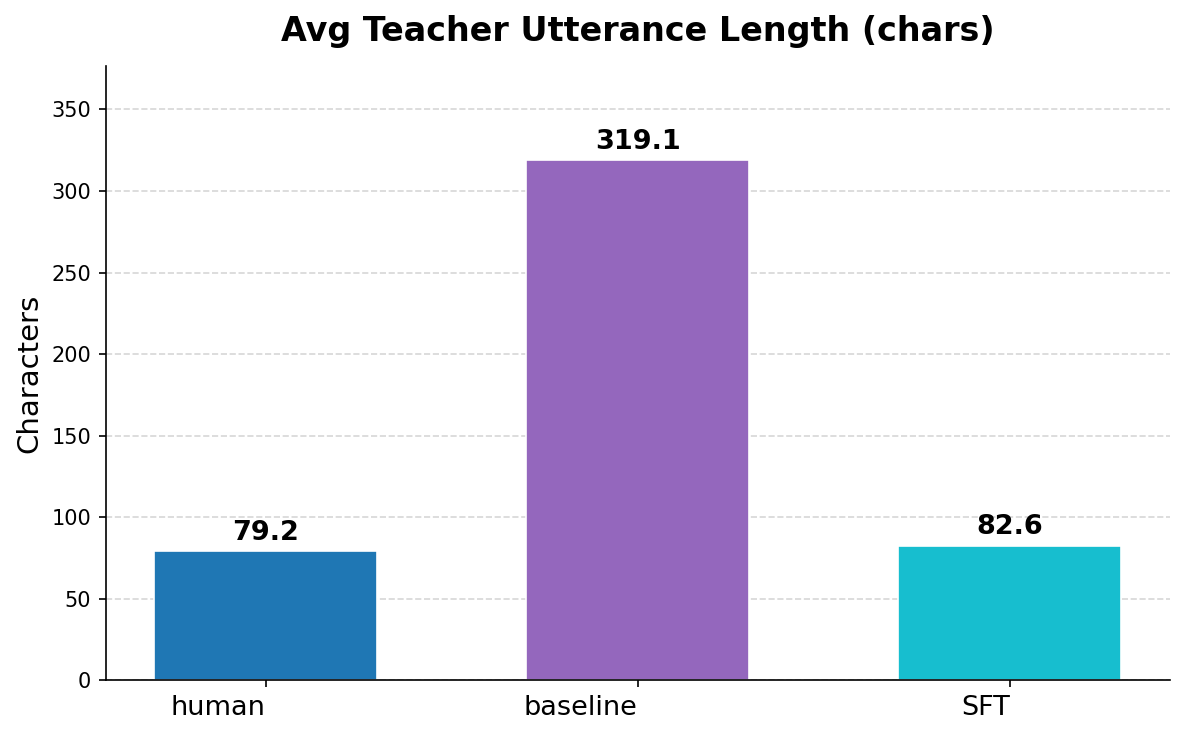
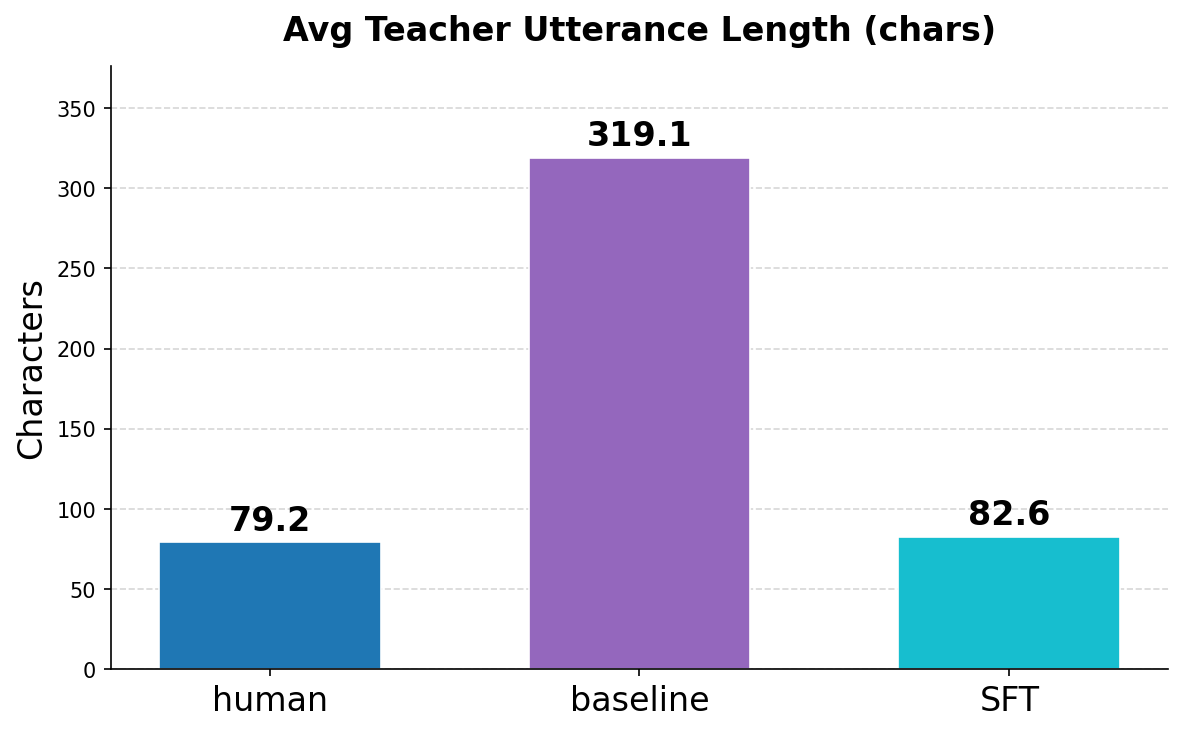
plots and scripts to create plots

diff --git a/analyses/plot_data_distributions.py b/analyses/plot_data_distributions.py
@@ -7,26 +7,59 @@ import numpy as np
 
 sns.set_theme(style="white")
 
+def parse_conversation(conversation_str):
+    '''Parse the conversation string into a list of (speaker, turn_text) tuples.
+
+    conversationample:
+    [
+        ("Teacher","Hi ..."),
+        ("Student","I got 72 ..."),
+        ("Teacher","...")
+    ]
+    
+    '''
+    turns = []
+    for turn in conversation_str.split("|EOM|"):
+        turn = turn.strip() # remove whitespace
+        if not turn or ": " not in turn:
+            print(f"Improper formatting, skipping turn. Should not happen: '{turn}'")
+            continue
+        speaker, turn_text = turn.split(": ", 1) # split string into these two parts to format into tuple
+        turns.append((speaker.strip(), turn_text.strip()))
+    return turns
+
+def parse_conversation_length(conversation_str):
+    turns = [t.strip() for t in conversation_str.split('|EOM|') if t.strip()]
+    return len(turns)
+
 def main():
     plot_dimension = sys.argv[1]
 
-    if plot_dimension not in ['self-typical-confusion', 'self-typical-interactions']:
-        print("Invalid plot dimension. Please choose 'self-typical-confusion' or 'self-typical-interactions'.")
+    if plot_dimension not in ['self-typical-confusion', 'self-typical-interactions', 'self-correctness', 'conversation-length']:
+        print("Invalid plot dimension. Please choose 'self-typical-confusion', 'self-typical-interactions', 'self-correctness', or 'conversation-length'.")
         return
 
     with open('../data/train.jsonl', 'r') as f:
         train_data = [json.loads(line) for line in f]
         if plot_dimension == 'self-typical-confusion':
             confusion_train_data = [example['self-typical-confusion'] for example in train_data if 'self-typical-confusion' in example and example['self-typical-confusion'] is not None]
+        elif plot_dimension == 'self-typical-interactions':
+            typical_train_data = [example['self-typical-interactions'] for example in train_data if 'self-typical-interactions' in example and example['self-typical-interactions'] is not None]
+        elif plot_dimension == 'self-correctness':
+            correctness_train_data = [example['self-correctness'] for example in train_data if 'self-correctness' in example and example['self-correctness'] is not None]
         else:
-            typical_train_data = [example['self-typical-interactions'] for example in train_data if 'self-typical-interactions' in example and example['self-typical-interactions'] is not None]    
+            conversation_length_train_data = [parse_conversation_length(example['conversation']) for example in train_data if 'conversation' in example and example['conversation'] is not None]
 
     with open('../data/test.jsonl', 'r') as f:
         test_data = [json.loads(line) for line in f]
         if plot_dimension == 'self-typical-confusion':
             confusion_test_data = [example['self-typical-confusion'] for example in test_data if 'self-typical-confusion' in example and example['self-typical-confusion'] is not None]
-        else:
+        elif plot_dimension == 'self-typical-interactions':
             typical_test_data = [example['self-typical-interactions'] for example in test_data if 'self-typical-interactions' in example and example['self-typical-interactions'] is not None]
+        elif plot_dimension == 'self-correctness':
+            correctness_test_data = [example['self-correctness'] for example in test_data if 'self-correctness' in example and example['self-correctness'] is not None]
+        else:
+            conversation_length_test_data = [parse_conversation_length(example['conversation']) for example in test_data if 'conversation' in example and example['conversation'] is not None]
 
     if plot_dimension == 'self-typical-confusion':
         df = pd.DataFrame({
@@ -52,9 +85,15 @@ def main():
         plt.title('Distribution of Self-Typical Confusion Scores')
         plt.legend()
         plt.grid(axis='x', alpha=1)
+        # Only show left and bottom spines (borders)
+        ax = plt.gca()
+        ax.spines['top'].set_visible(False)
+        ax.spines['right'].set_visible(False)
+        ax.spines['left'].set_visible(True)
+        ax.spines['bottom'].set_visible(True)
         plt.savefig('self_typical_confusion_distribution.png')
     # plt.show()
-    else:
+    elif plot_dimension == 'self-typical-interactions':
         bin_edges = np.arange(0.5, 6, 1)
         df = pd.DataFrame({
             'Self-Typical Interaction score': np.concatenate([typical_train_data, typical_test_data]),
@@ -78,7 +117,70 @@ def main():
         plt.title('Distribution of Self-Typical Interaction Scores')
         plt.legend()
         plt.grid(axis='y', alpha=1)
+        # Only show left and bottom spines (borders)
+        ax = plt.gca()
+        ax.spines['top'].set_visible(False)
+        ax.spines['right'].set_visible(False)
+        ax.spines['left'].set_visible(True)
+        ax.spines['bottom'].set_visible(True)
         plt.savefig('self_typical_interactions_distribution.png')
+    elif plot_dimension == 'self-correctness':
+        # For self-correctness, count 'Yes' and 'No' and plot as bar chart
+        train_counts = pd.Series(correctness_train_data).value_counts().sort_index()
+        test_counts = pd.Series(correctness_test_data).value_counts().sort_index()
+        categories = sorted(set(train_counts.index).union(set(test_counts.index)))
+        train_probs = train_counts.reindex(categories, fill_value=0) / train_counts.sum()
+        test_probs = test_counts.reindex(categories, fill_value=0) / test_counts.sum()
+        width = 0.35
+        x = np.arange(len(categories))
+        plt.bar(x - width/2, train_probs, width, label=f'Train (n={len(correctness_train_data)})', color='tab:blue', edgecolor='black')
+        plt.bar(x + width/2, test_probs, width, label=f'Val (n={len(correctness_test_data)})', color='tab:orange', edgecolor='black')
+        plt.xlabel('Self-Correctness')
+        plt.ylabel('Probability')
+        plt.xticks(x, categories)
+        plt.title('Distribution of Self-Correctness')
+        plt.legend()
+        plt.grid(axis='y', alpha=1)
+        # Only show left and bottom spines (borders)
+        ax = plt.gca()
+        ax.spines['top'].set_visible(False)
+        ax.spines['right'].set_visible(False)
+        ax.spines['left'].set_visible(True)
+        ax.spines['bottom'].set_visible(True)
+        plt.savefig('self_correctness_distribution.png')
+    else:
+        # For conversation length, plot as histogram
+        print(np.array(conversation_length_train_data).shape, np.array(conversation_length_test_data).shape)
+        df = pd.DataFrame({
+            'Conversation Length': np.concatenate([conversation_length_train_data, conversation_length_test_data]),
+            'Dataset': ['Train'] * len(conversation_length_train_data) + ['Val'] * len(conversation_length_test_data)
+        })
+        # Plot as bar chart for probability distributions (not density)
+        plt.figure(figsize=(10, 6))
+        train_counts, bins = np.histogram(conversation_length_train_data, bins=20)
+        test_counts, _ = np.histogram(conversation_length_test_data, bins=bins)
+        train_probs = train_counts / train_counts.sum()
+        test_probs = test_counts / test_counts.sum()
+        bin_centers = (bins[:-1] + bins[1:]) / 2
+        width = (bins[1] - bins[0]) * 0.4
+        colors = plt.cm.tab10(np.linspace(0, 0.9, 2))
+        plt.bar(bin_centers - width/2, train_probs, width=width, label=f'Train (n={len(conversation_length_train_data)})', color=colors[0], edgecolor="white", linewidth=0.8)
+        plt.bar(bin_centers + width/2, test_probs, width=width, label=f'Val (n={len(conversation_length_test_data)})', color=colors[1], edgecolor="white", linewidth=0.8)
+        plt.xlabel('Conversation Length (number of turns)', fontsize=16, fontweight='bold')
+        plt.xticks(fontsize=16)
+        plt.yticks(fontsize=16)
+        plt.ylabel('Probability', fontsize=16, fontweight='bold')
+        plt.title('Distribution of Conversation Lengths', fontsize=16, fontweight='bold', pad=12)
+        plt.legend(title='Dataset', fontsize=16)
+        plt.tight_layout()
+        plt.grid(axis='y', alpha=1, linestyle='--')
+        # Only show left and bottom spines (borders)
+        ax = plt.gca()
+        ax.spines['top'].set_visible(False)
+        ax.spines['right'].set_visible(False)
+        ax.spines['left'].set_visible(True)
+        ax.spines['bottom'].set_visible(True)
+        plt.savefig('conversation_length_distribution.png')
 
 
 if __name__ == "__main__":

diff --git a/analyses/plot_conversation_stats.py b/analyses/plot_conversation_stats.py
@@ -44,12 +44,12 @@ def plot_metric(stats, key, title, ylabel, output_dir):
                 bar.get_x() + bar.get_width() / 2,
                 bar.get_height() + 0.01 * max(values),
                 f"{val:.1f}",
-                ha="center", va="bottom", fontsize=13, fontweight="bold"
+                ha="center", va="bottom", fontsize=16, fontweight="bold"
             )
 
     ax.set_xticks(x)
-    ax.set_xticklabels(labels, rotation=0, ha="right", fontsize=13)
-    ax.set_ylabel(ylabel, fontsize=14)
+    ax.set_xticklabels(labels, rotation=0, ha="center", fontsize=16)
+    ax.set_ylabel(ylabel, fontsize=16)
     ax.set_title(title, fontsize=16, fontweight="bold", pad=12)
     ax.set_ylim(0, max(values) * 1.18)
     ax.yaxis.grid(True, linestyle="--", alpha=0.5)
